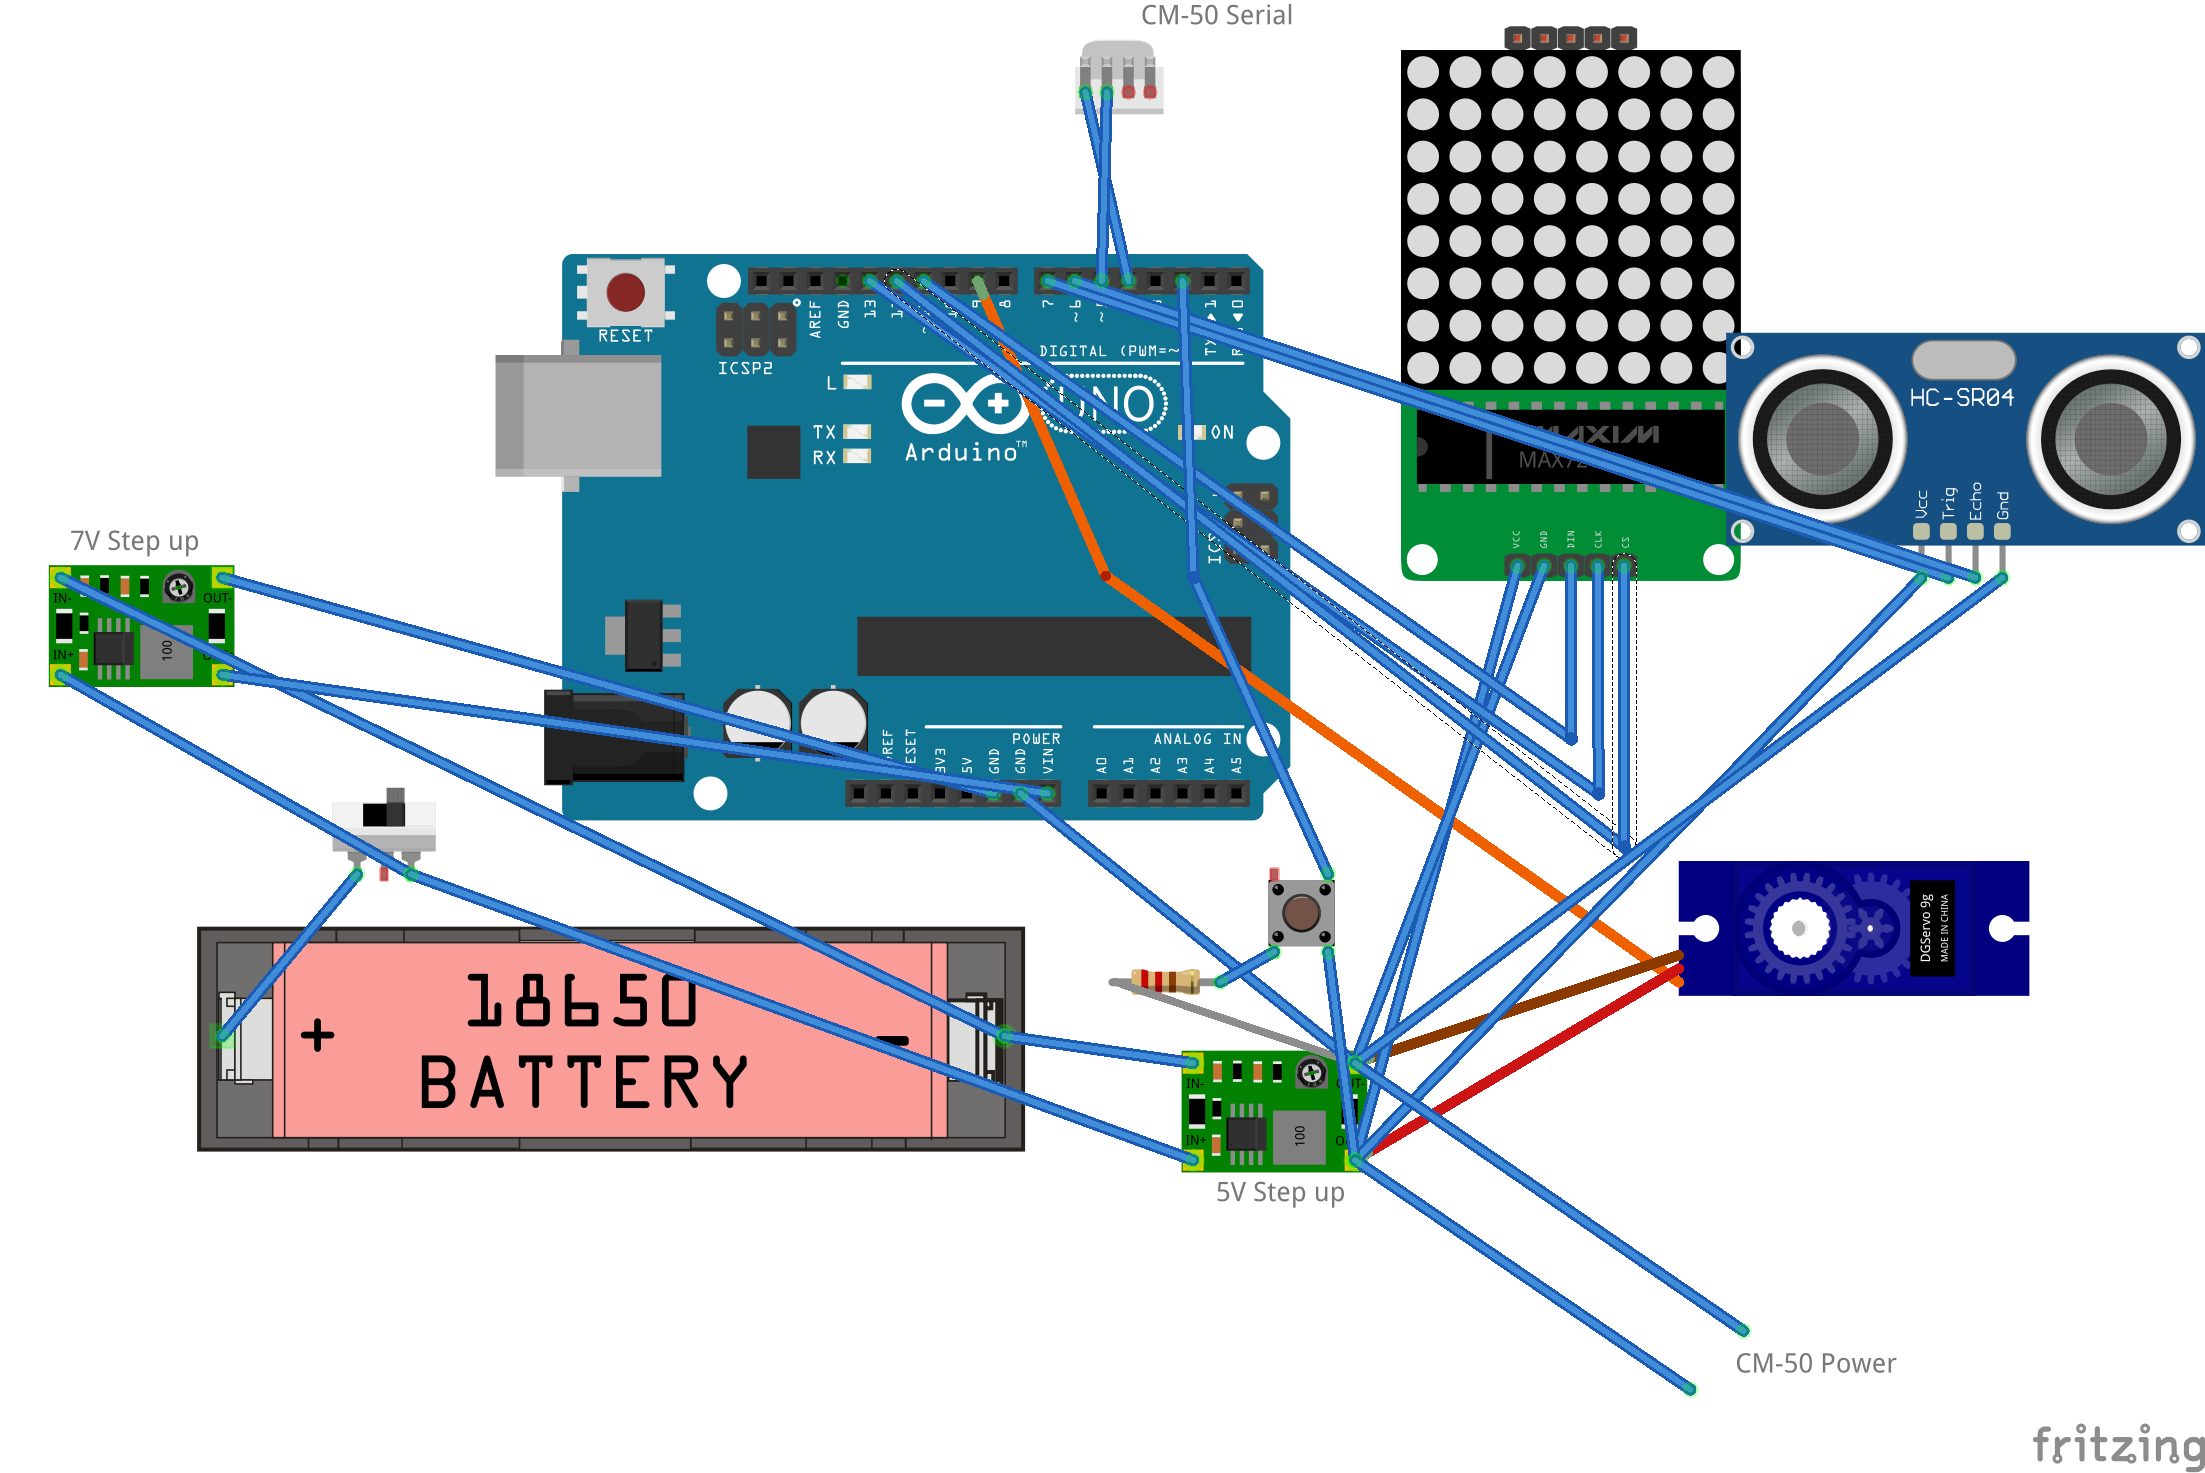
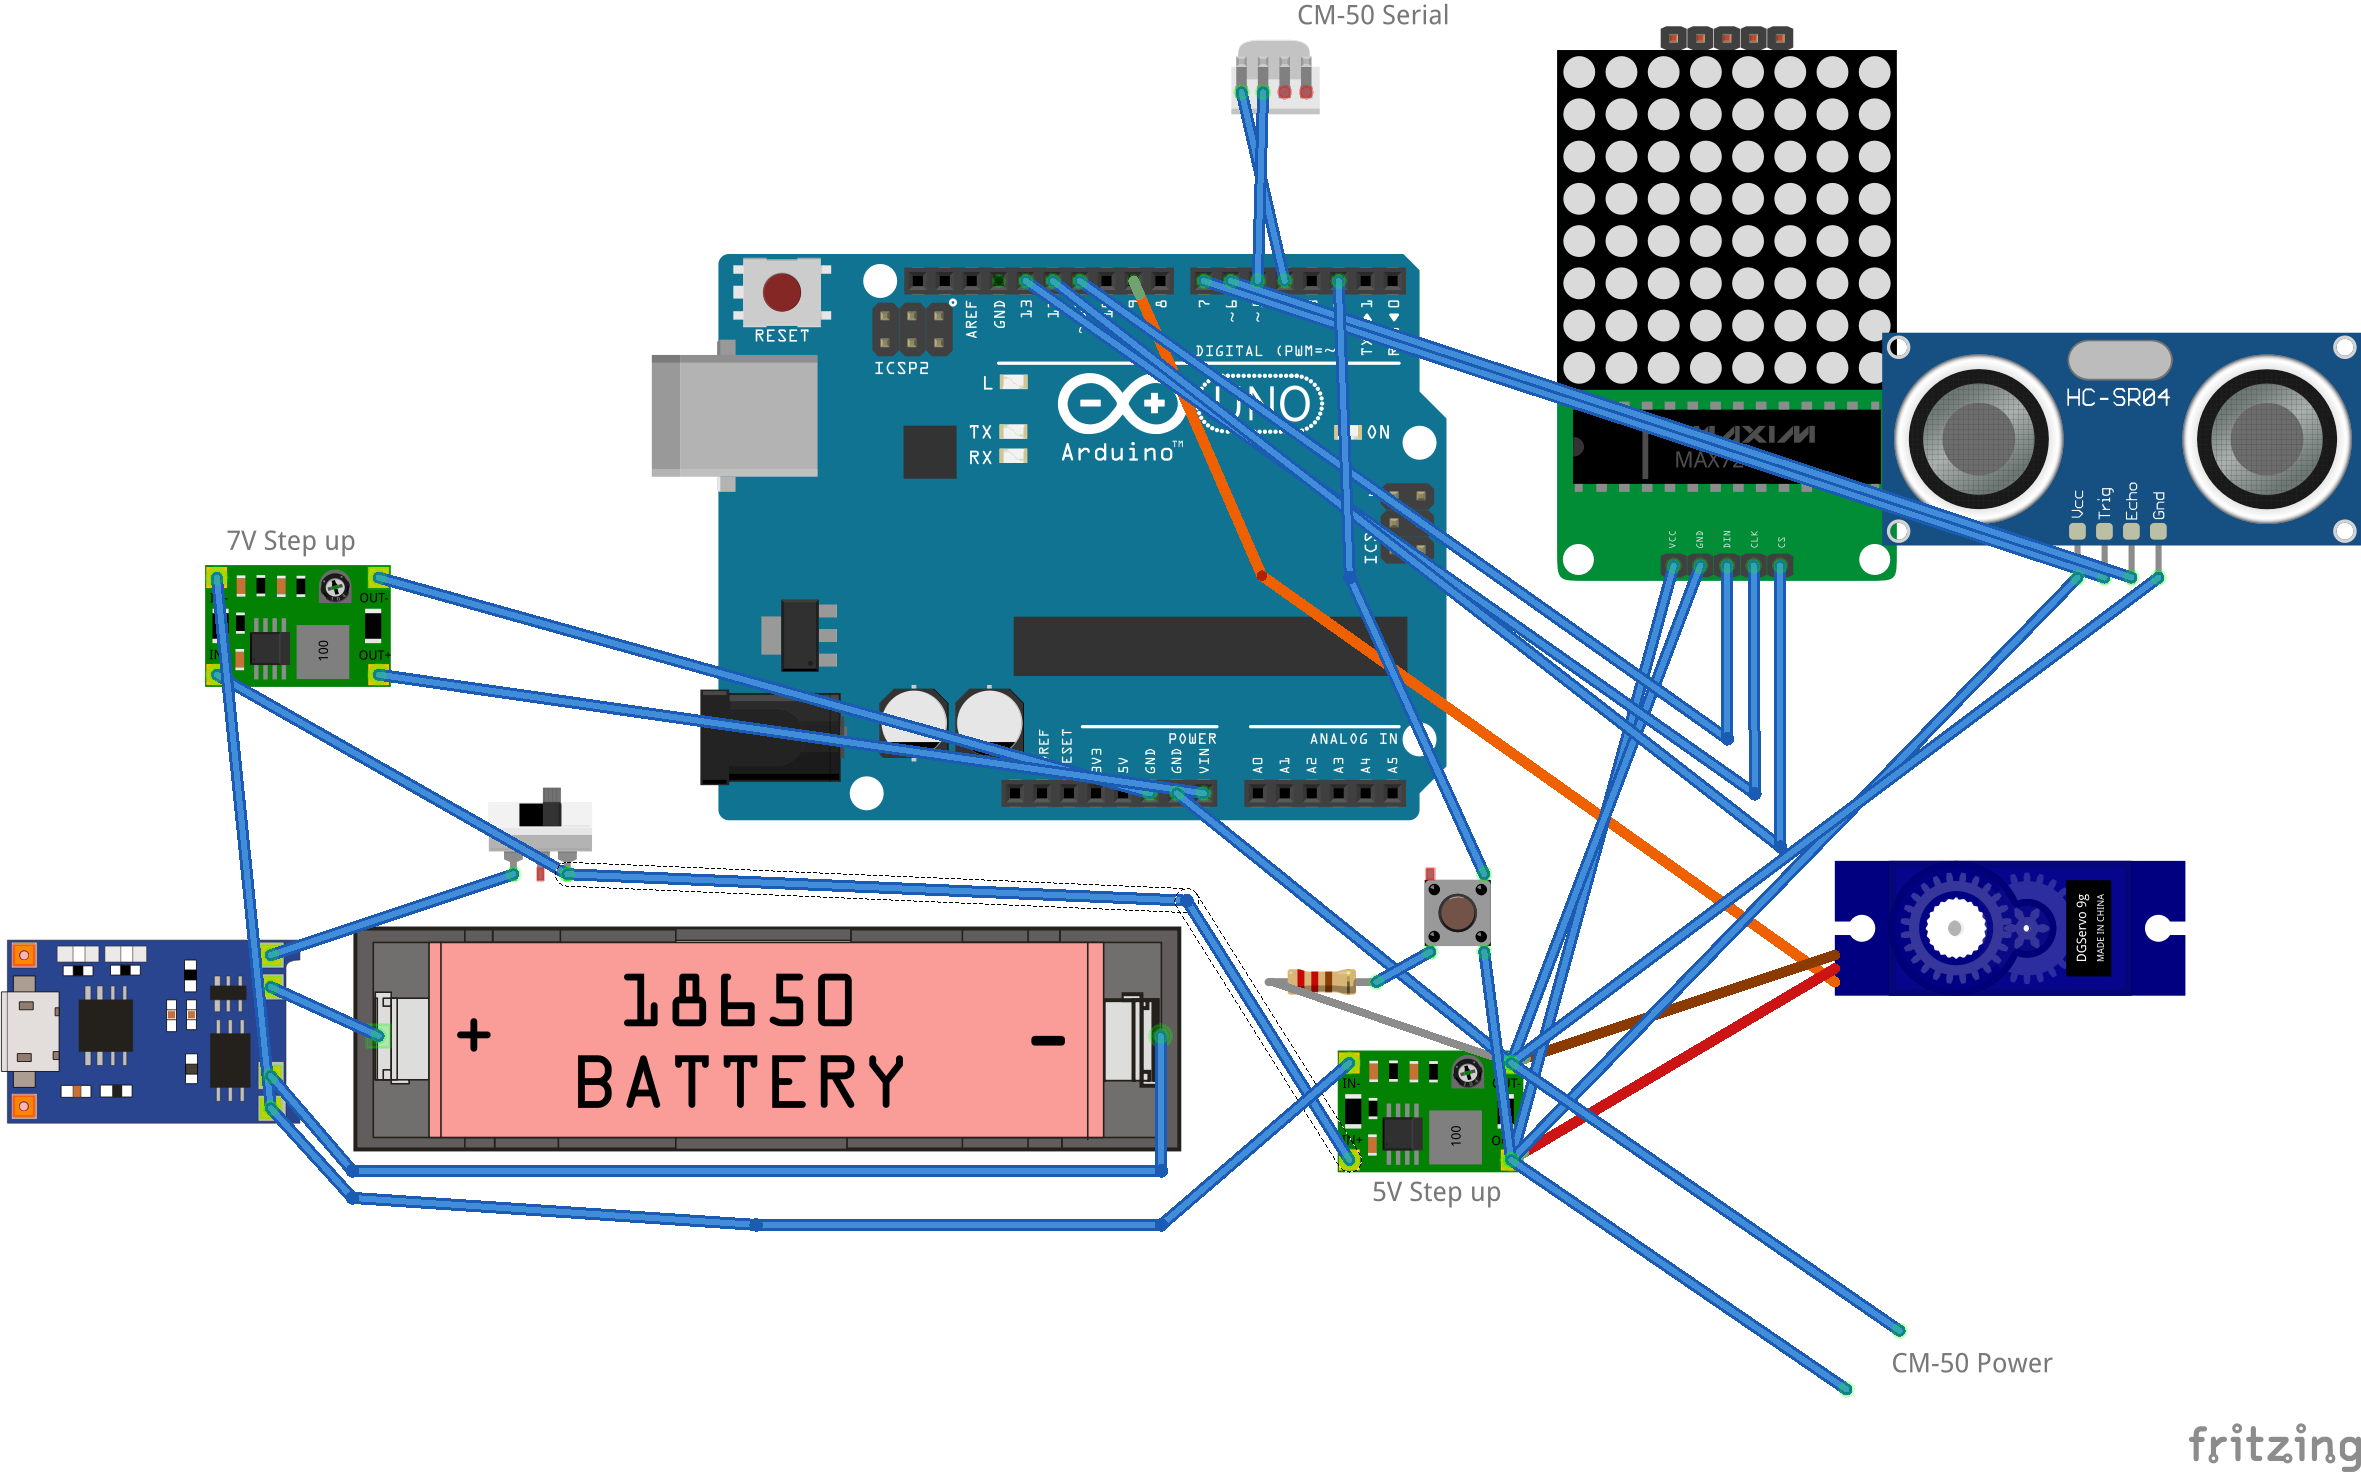
Adding TP4056

Changed region(s): [[0.0, 0.0, 1.0, 0.9681], [0.9252, 0.9681, 1.0, 0.9993]]

diff --git a/README.md b/README.md
@@ -6,7 +6,7 @@ Olbin Coding bot based on Arduino and Mblock
 ![Pin Layout](Olbin_pin.png)
 
 
-- 18650 배터리 하나를 두 개의 step up converter를 이용하여 5V (부품 전원) 및 7V(아두이노 Vin)로 승압
+- TP4056으로 충전가능하게 만든 18650 배터리 하나를 두 개의 step up converter를 이용하여 5V (부품 전원) 및 7V(아두이노 Vin)로 승압
 - 푸시버튼 : 1k Pull down 저항을 이용하여 아두이노 2번과 연결
 - 초음파센서 : Trig(7), Echo(6) 및 Vcc(5v), GND 연결
 - CM-50 : 시리얼 연결 포트가 배터리 넣는 곳에서 보았을 때 왼쪽 부터 0번이라고 하면, 0번 - 아두이노 4번, 1번 - 아두이노 5번
